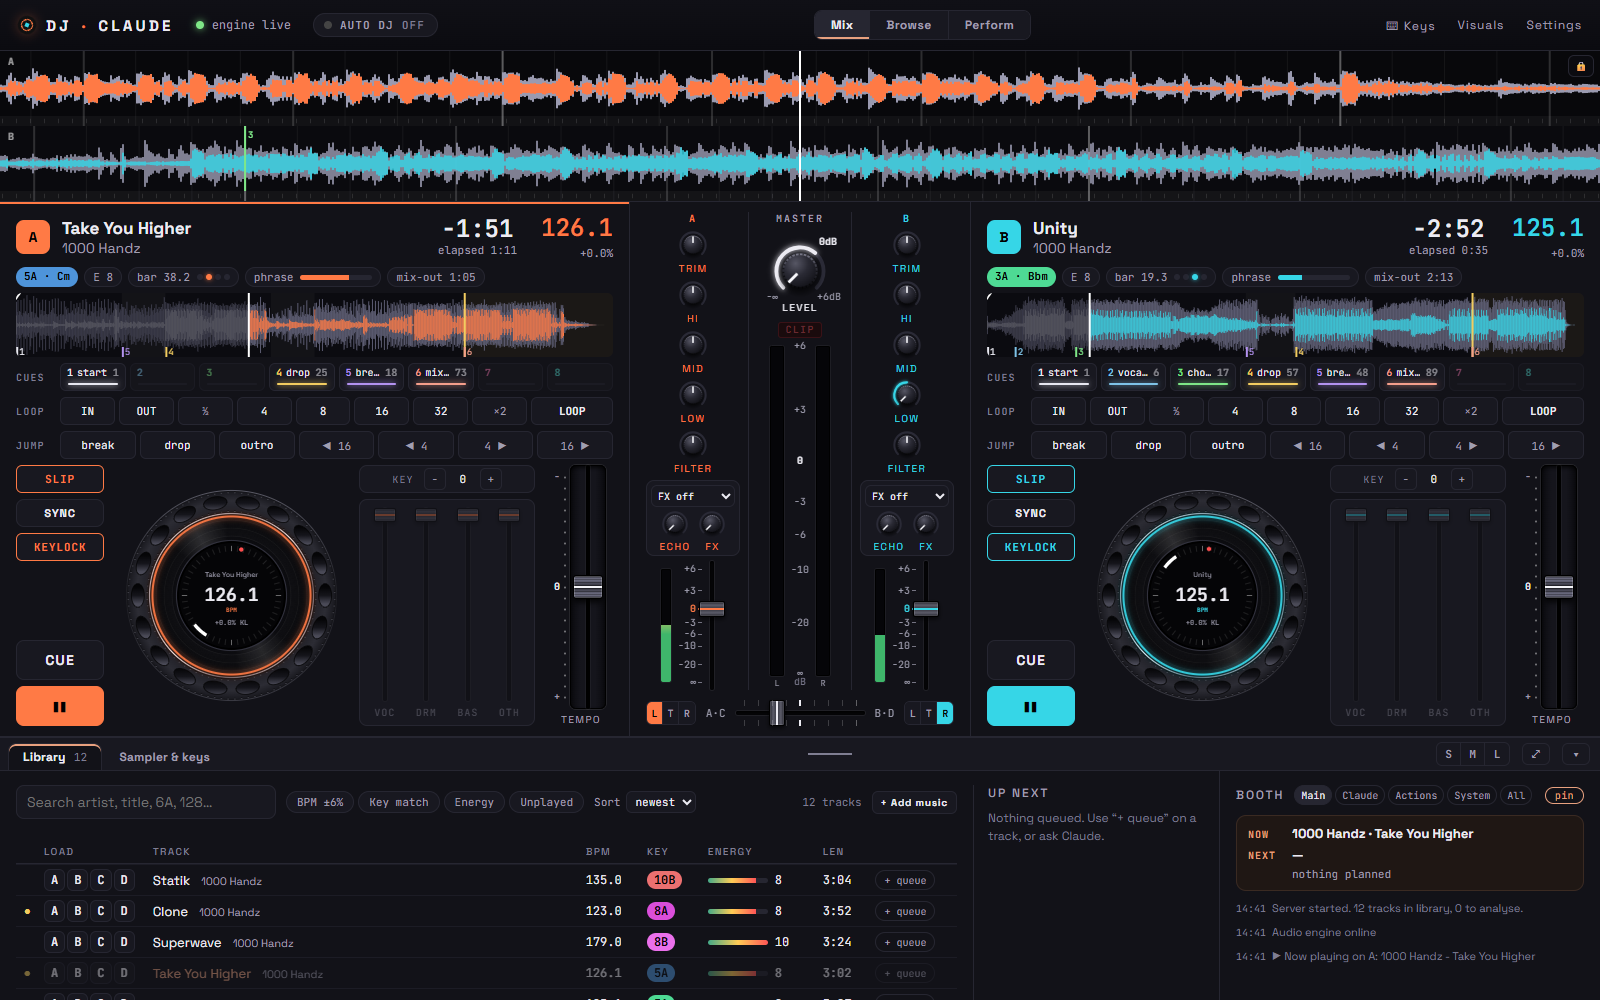
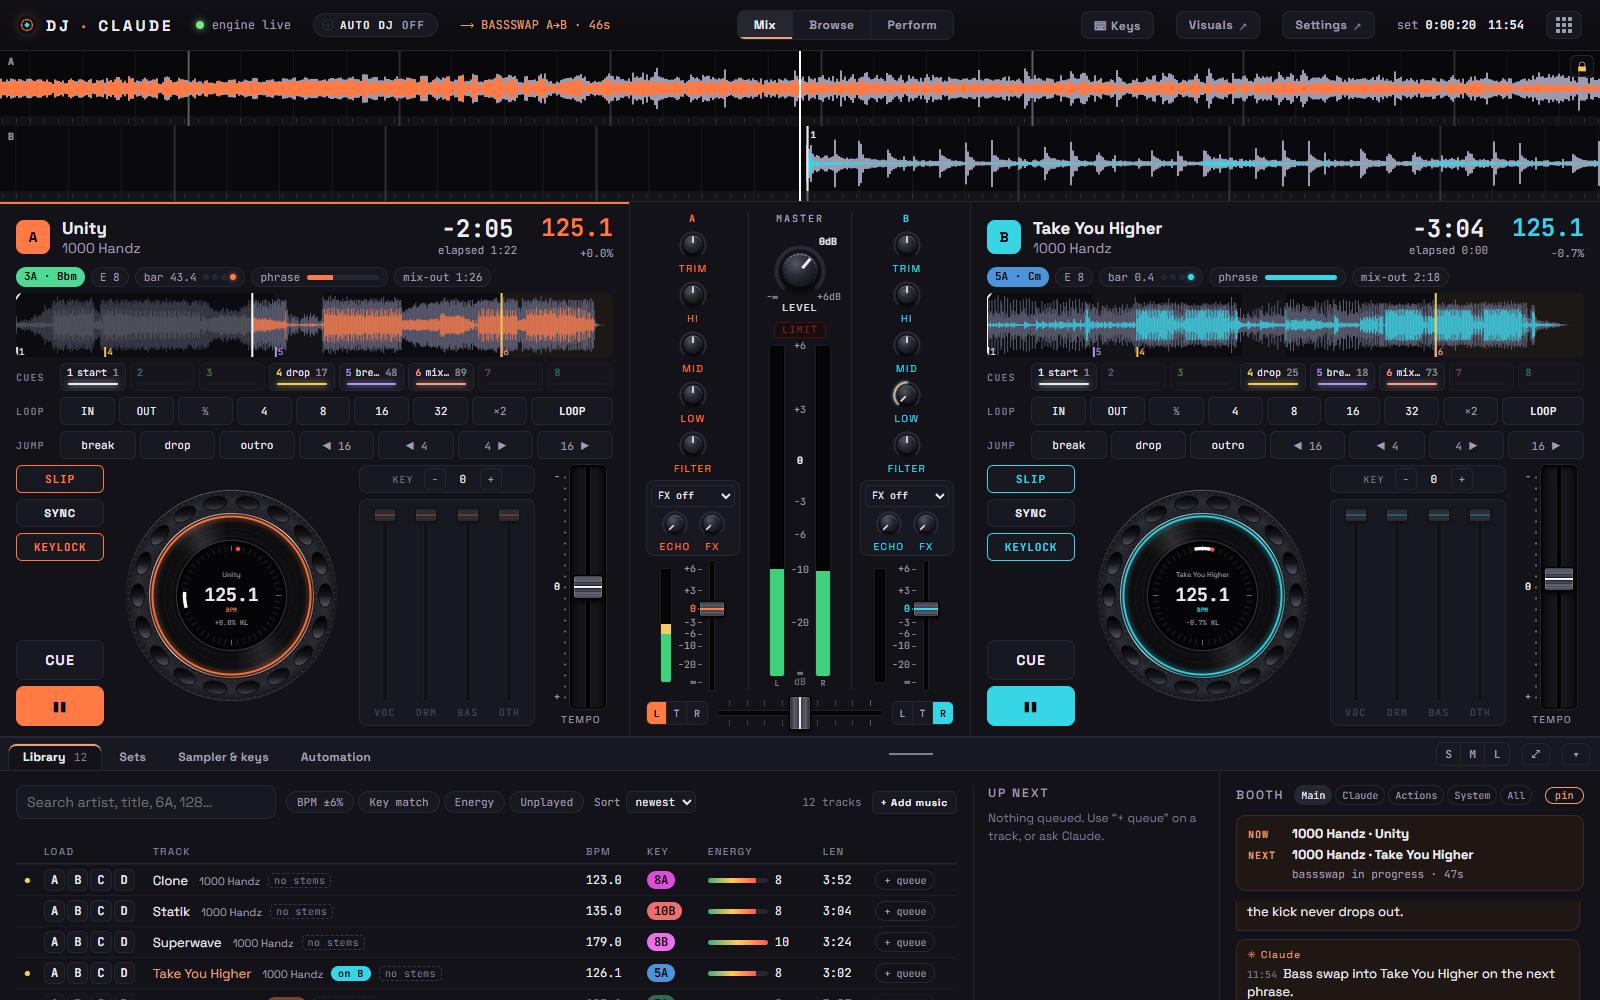
docs: lead the README with Claudio, the suite, with new screenshots of all five apps
A new banner, the home window, a fresh shot of the decks and one of each of the four other apps; how to install
the desktop app from the releases now that the repository is public.

diff --git a/docs/desktop-app.md b/docs/desktop-app.md
@@ -41,7 +41,7 @@ Claude Code and `node dj.mjs …` work the same in both modes: they talk to the 
 only the desktop app has dependencies (Electron in `apps/desktop/`, and its updater).
 
 ## The installer
-Each [release](https://github.com/tomek-i/dj-claude/releases) has the Windows installer attached
+Each [release](https://github.com/tomek-i/claudio/releases) has the Windows installer attached
 (`Claudio-Setup-<version>.exe`); `pnpm dist` builds the same thing into `dist/`. It is not code-signed, so Windows
 asks before running it.
 
@@ -68,11 +68,10 @@ background (the footer and the menu show how far it has got). When it is in, **R
 and starts the suite again on the new version; if you leave it, it installs when you next quit. A check you asked for
 answers in a dialog. A check that fails says why in a line (no connection, or no update to be seen on GitHub).
 
-It reads the latest [release](https://github.com/tomek-i/dj-claude/releases): the installer, its `.blockmap` and
+It reads the latest [release](https://github.com/tomek-i/claudio/releases): the installer, its `.blockmap` and
 `latest.yml`, which the `installer` job attaches (electron-updater, `apps/desktop/updates.mjs`). Releases before
-0.9.0 have no `latest.yml`, and while the repository is private GitHub shows the app no release at all, so until
-then the check says there is no update to be seen. Run from the source tree (`pnpm desktop`), the app has no
-updates: `git pull` is how it gets them.
+0.9.0 have no `latest.yml`, so an app older than that cannot update itself: install 0.9.0 or later once by hand.
+Run from the source tree (`pnpm desktop`), the app has no updates: `git pull` is how it gets them.
 
 ## Building and testing it
 - `pnpm dist` builds the installer into `dist/` (electron-builder; the configuration is `apps/desktop/electron-builder.config.cjs`).
